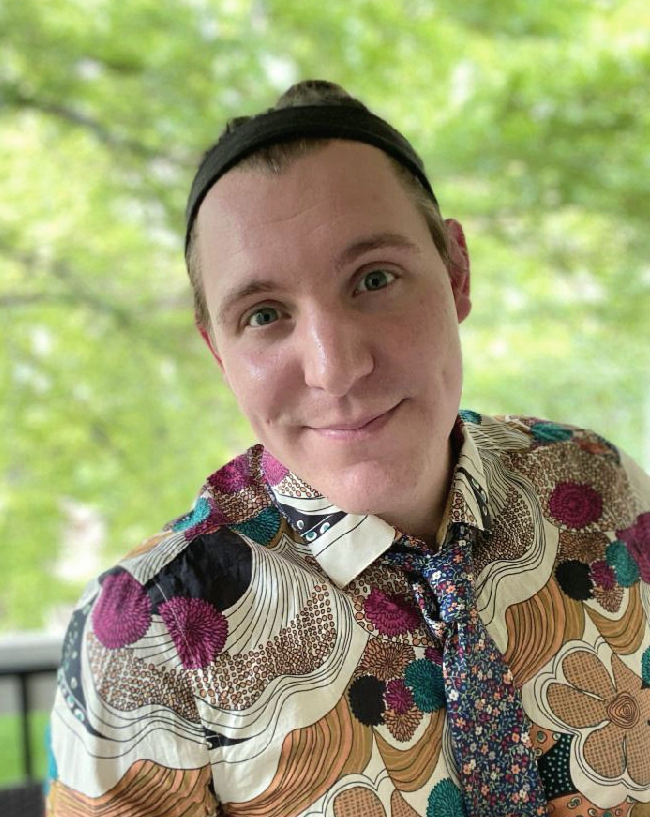
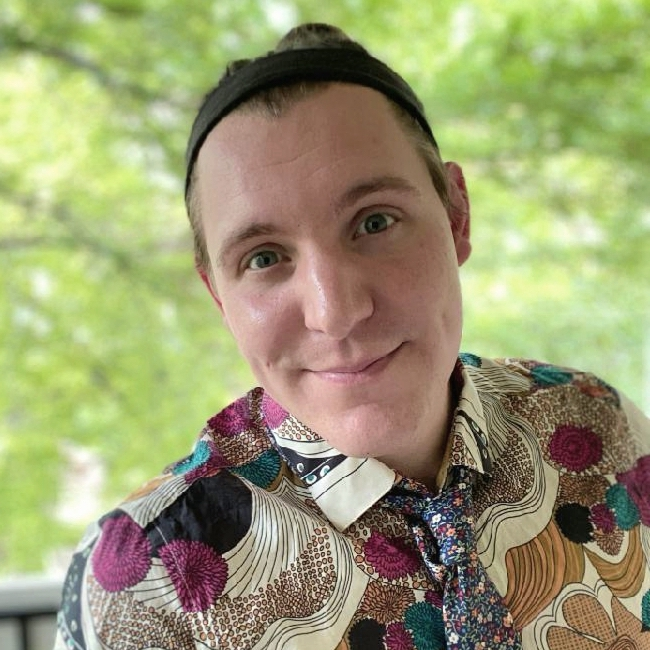
Updated main page layout & content

diff --git a/index.html b/index.html
@@ -34,33 +34,39 @@
             </div>
         </nav>
         <div class="main">
-            <div class="float-box split-content">
-                <h2>Scientific Programming</h2>
-                <p>
-                    I have extensive experience running and designing simulations for complex dynamical 
-                    systems, including for solid state materials, RF circuit systems, and astronomical 
-                    observational environments. More recently, I've also been gaining experience with 
-                    the experimental controls software EPICS.
-                </p>
-                <h2>Machine Learning</h2>
-                <p>
-                    I have a professional certificate in machine learning, and it is a primary aspect of my 
-                    work and research. My current focuses are in the area are the application of variational 
-                    models with stochastic elements and methods of uncertainty quantification. 
-                </p>
-                <h2>Research Development</h2>
-                <p>
-                    In my current position, I play an active role in developing and writing research proposals, 
-                    supporting colleagues' proposal efforts, and leading key project initiatives. I have a 
-                    professional certificate in Engineering Management and am actively seeking to further 
-                    this part of my skillset.
-                </p>
-                <div class="d-block d-lg-none">
-                    <img src="media/images/personal-photo.jpg" alt="A picture of me">
-                </div>
-            </div>
-            <div class="split-graphic d-none d-lg-flex">
+            <div class="self-graphic d-none d-lg-flex">
                 <img src="media/images/personal-photo.jpg" alt="A picture of me">
+            </div>
+            <div class="self-graphic d-block d-lg-none">
+                <img src="media/images/personal-photo.jpg" alt="A picture of me">
+            </div>
+            <div class="float-box">
+                <div class="float-content">
+                    <h2>Machine Learning</h2>
+                    <p>
+                        I have extensive experience designing, constructing, training, tuning, and deploying 
+                        machine learning models for applications in science and engineering. This experience 
+                        includes the use of generative and machine vision models for problems in particle 
+                        accelerator operations and modeling, as well as experimental controls and automation. 
+                        Much of this work has included elements of stochastic modeling and uncertainty quantification.
+                    </p>
+                    <h2>Scientific Programming</h2>
+                    <p>
+                        I have nearly a decade of scientific programming experience, including the development of 
+                        advanced simulation software and analysis pipelines. This experience spans domains from
+                        atomistic simulations of solid state materials to effective circuit and signal transport
+                        models for RF systems and even astronomical observational environments. I've also done a 
+                        substantial amount of work on experimental control systems, particularly using the EPICS framework.
+                    </p>
+                    <h2>Research Development & Project Management</h2>
+                    <p>
+                        I've served as a technical lead on a number of projects in the area of particle accelerator 
+                        modeling and operations. In my current role, I actively develop concepts for research projects 
+                        and oversee the writing and execution of funding proposals, including identifying relevant 
+                        grant opportunities. I also have a professional certificate in Engineering Management in the Aerospace 
+                        Industry, and am interested in further developing this facet of my career.
+                    </p>
+                </div>
             </div>
         </div>
         <div class="quote-banner">
@@ -73,7 +79,7 @@
             <a href="mailto:morgan.james.henderson@gmail.com" class="fa fa-google" aria-label="Send me an email"></a>
         </div>
         <div class="sub-footer">
-            <p>© Copyright 2023 Morgan Henderson - All rights reserved</p>
+            <p>© Copyright 2024 Morgan Henderson - All rights reserved</p>
         </div>
 	</body>
     <script src="jscript/bootstrap.js"></script>

diff --git a/css/index.css b/css/index.css
@@ -7,47 +7,51 @@ h2 {
     margin: .5em 0 .5em 0;
 }
 
+h2:first-of-type {
+    margin: 0 0 .5em 0;
+}
+
 .main {
-    width: 75%;
+    width: 80%;
     grid-area: main;
     display: flex;
-    align-items: center;
+    align-items: start;
     margin: 0 12.5% 0 12.5%;
-    padding: 2% 0 2% 0;
+    padding: 0 0 1.5% 0;
 }
 
-.split-content {
-    width: 70%;
-    float: left;
-    margin: 0 5% 0 0;
+.float-box {
+    margin: 6% 8% 0 8%;
 }
 
-.split-graphic {
-    width: 25%;
-    float: left;
+.float-content {
+    margin: 0 0 0 7.5%;
 }
 
 img {
-    width: 100%;
+    display: flex;
+    position: absolute;
+    width: 12.5%;
     margin: 0;
+    border-radius: 50%;
 }
 
 /* Style for mobile */
 
 @media only screen and (max-width: 820px) {
 
-    .split-content {
-        width: 100%;
-        margin: 0;
+    .float-box {
+        margin: 30% 0 0 0;
     }
 
-    .split-graphic {
+    .float-content {
         width: 100%;
+        margin: 15% 0 0 0;
     }
 
     .d-lg-none img {
-        width : 70%;
-        margin : 5% 15% 5% 15%;
+        width : 50%;
+        margin : 5% 33% 5% 33%;
     }
 
 }

diff --git a/css/main.css b/css/main.css
@@ -83,7 +83,7 @@ body {
     display: block;
     margin-left: auto;
     margin-right: auto;
-    margin-bottom: 2%;
+    margin-bottom: 1%;
     color: rgba(255,255,255,1.0);
 }
 
@@ -175,9 +175,9 @@ body {
 
 .float-box {
     background-color: rgba(255,255,255,0.7);
-    padding: 2% 3% 3% 3%;
+    padding: 1% 3% 2% 3%;
     color: rgba(0,0,0,1.0);
-    border-radius: 0 2em 2em 2em;
+    border-radius: 1em;
 }
 
 /* Style the quote banner */

diff --git a/resume.html b/resume.html
@@ -179,7 +179,7 @@
             <a href="mailto:morgan.james.henderson@gmail.com" class="fa fa-google" aria-label="Send me an email"></a>
         </div>
         <div class="sub-footer">
-            <p>© Copyright 2023 Morgan Henderson - All rights reserved</p>
+            <p>© Copyright 2024 Morgan Henderson - All rights reserved</p>
         </div>
 	</body>
     <script src="jscript/bootstrap.js"></script>

diff --git a/contact.html b/contact.html
@@ -62,7 +62,7 @@
             <a href="mailto:morgan.james.henderson@gmail.com" class="fa fa-google" aria-label="Send me an email"></a>
         </div>
         <div class="sub-footer">
-            <p>© Copyright 2023 Morgan Henderson - All rights reserved</p>
+            <p>© Copyright 2024 Morgan Henderson - All rights reserved</p>
         </div>
 	</body>
     <script src="jscript/bootstrap.js"></script>
